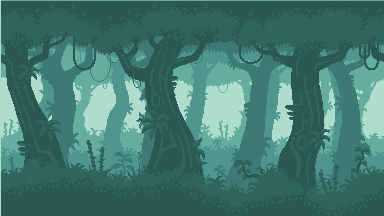
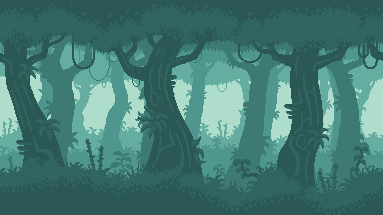
Tidy up background image

diff --git a/Game Design - Y4S2/Game1/src/Viewer.java b/Game Design - Y4S2/Game1/src/Viewer.java
@@ -188,7 +188,7 @@ public class Viewer extends JPanel {
     }
 
     private void drawBackground(Graphics g) {
-        g.drawImage(myImages.get("res/jungle/background.png"), 0, 0, 1000, 1000, 0, 20, 383, 216, null);
+        g.drawImage(myImages.get("res/jungle/background.png"), 0, 0, 2000, 1000, 0, 0, 383, 216, null);
     }
 
     private void drawBullet(int x, int y, int width, int height, String texture, Graphics g) {
